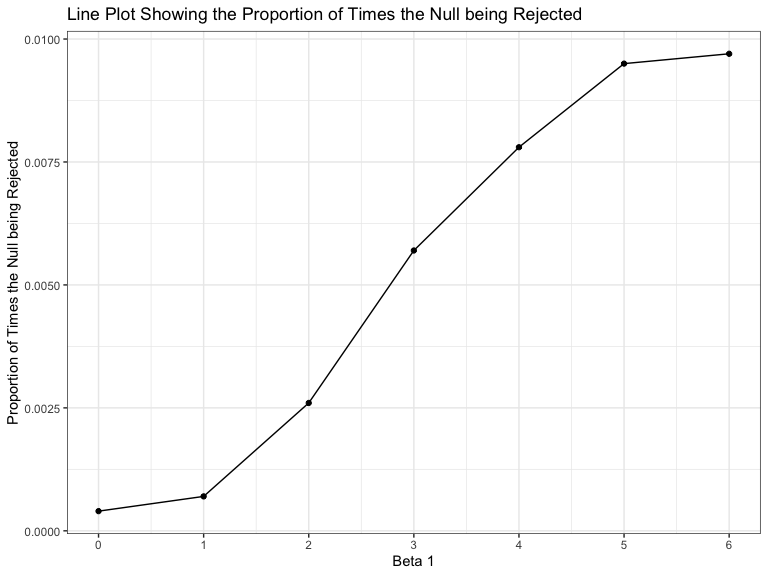
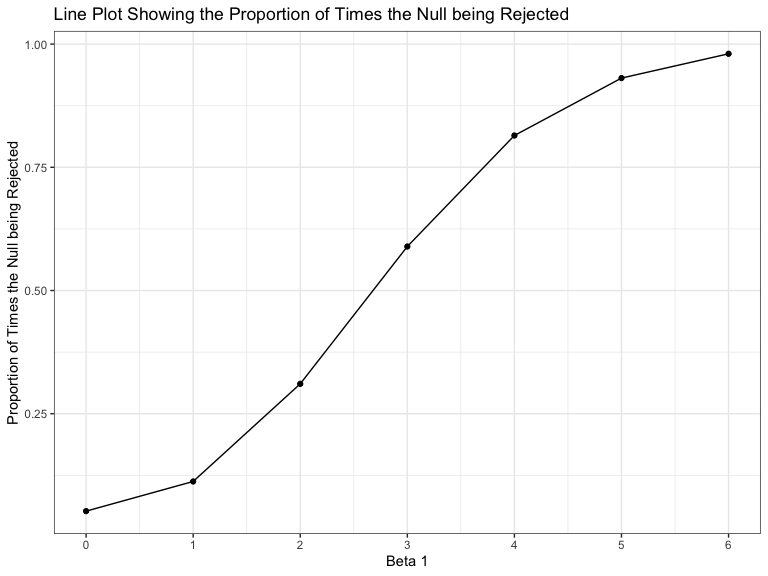
change 100 to 10000 in simulation for final update

diff --git a/hw5_kw2873.md b/hw5_kw2873.md
@@ -98,7 +98,7 @@ Generate 10000 datasets from the model
 # function for doing regression simulation and set parameters mentioned
 sim_regression = function(n = 30, beta0 = 2, beta1 = 0) {
     sim_data = tibble(
-    x = rnorm(n, mean = 1, sd = 1),
+    x = rnorm(n, mean = 0, sd = 1),
     y = beta0 + beta1 * x + rnorm(n, mean = 0, sd = sqrt(50))
   )
   
@@ -115,7 +115,7 @@ sim_regression = function(n = 30, beta0 = 2, beta1 = 0) {
 ## 10000 runs of dataset
   simulation = 
   tibble(beta1 = 0:6) %>% 
-  mutate(beta1_hat = map(.x = beta1, ~rerun(100, sim_regression(beta1 = .x)))) %>% 
+  mutate(beta1_hat = map(.x = beta1, ~rerun(10000, sim_regression(beta1 = .x)))) %>% 
   unnest()  %>%
   unnest
 ```
